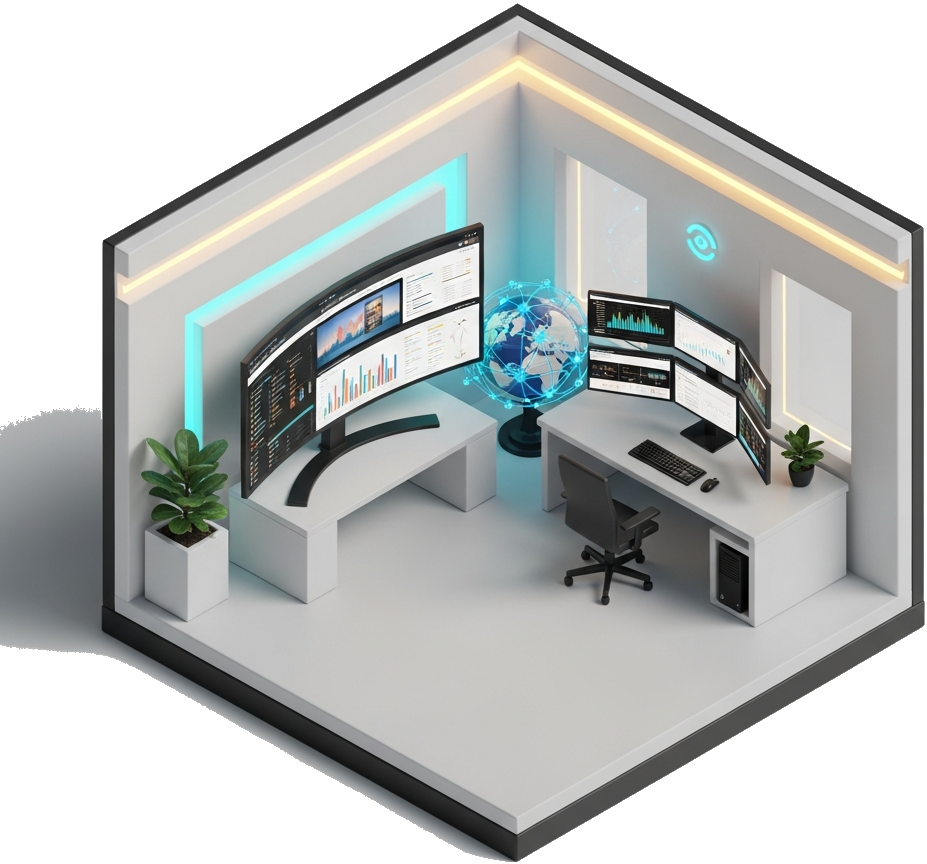
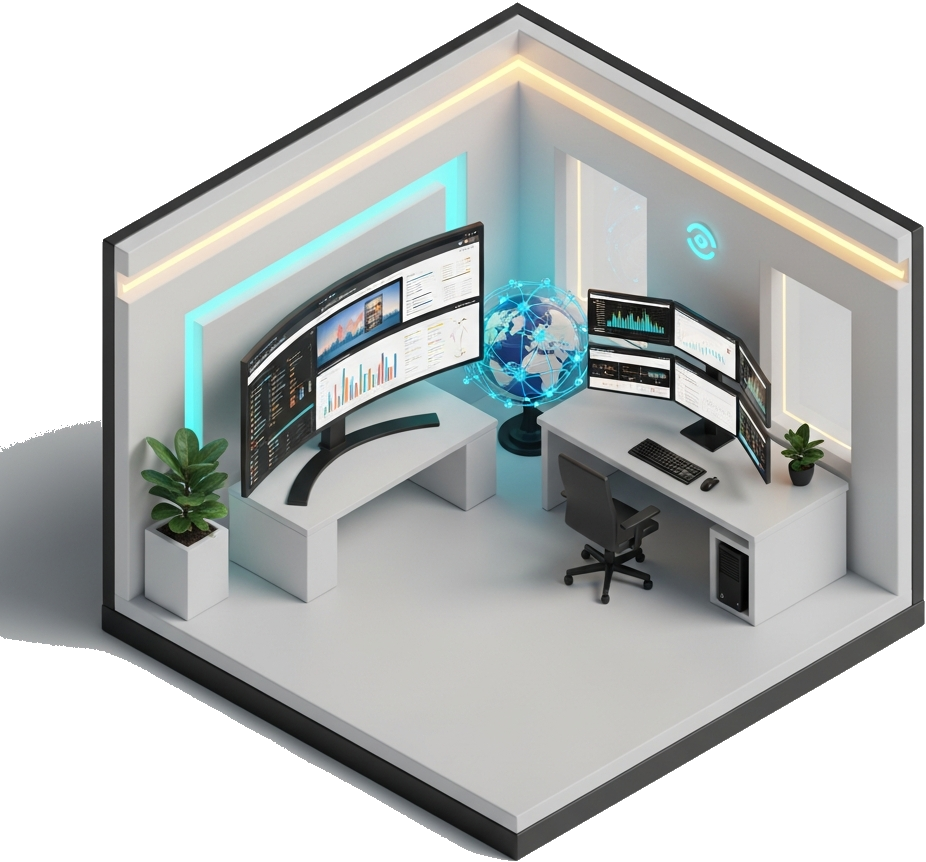
auto-commit for ea96acae-c438-4f1b-9b22-5030562a28d8

diff --git a/frontend/src/pages/DashboardHome.js b/frontend/src/pages/DashboardHome.js
@@ -13,12 +13,12 @@ import { getAvatarUrl } from '../utils/avatar';
 const API = process.env.REACT_APP_BACKEND_URL;
 
 const SITE_TYPE_THEMES = {
-  radio:          { img: '/images/env_radio.png', accent: '#f97316', label: 'Radio Station',    icon: Radio },
-  external_host:  { img: '/images/env_external_host.png', accent: '#06b6d4', label: 'External Host',    icon: ExternalLink },
-  server:         { img: '/images/env_server.png', accent: '#3b82f6', label: 'Virtual Datacenter', icon: HardDrive },
-  technical:      { img: '/images/env_technical.png', accent: '#10b981', label: 'Data Connection',  icon: Network },
-  task_scheduler: { img: '/images/env_task_scheduler.png', accent: '#8b5cf6', label: 'Task Manager',     icon: LayoutGrid },
-  wp_security:    { img: '/images/env_wp_security.png', accent: '#ef4444', label: 'WP Security',      icon: Shield },
+  radio:          { img: '/images/env_radio.jpg', accent: '#f97316', label: 'Radio Station',    icon: Radio },
+  external_host:  { img: '/images/env_external_host.jpg', accent: '#06b6d4', label: 'External Host',    icon: ExternalLink },
+  server:         { img: '/images/env_server.jpg', accent: '#3b82f6', label: 'Virtual Datacenter', icon: HardDrive },
+  technical:      { img: '/images/env_technical.jpg', accent: '#10b981', label: 'Data Connection',  icon: Network },
+  task_scheduler: { img: '/images/env_task_scheduler.jpg', accent: '#8b5cf6', label: 'Task Manager',     icon: LayoutGrid },
+  wp_security:    { img: '/images/env_wp_security.jpg', accent: '#ef4444', label: 'WP Security',      icon: Shield },
 };
 
 const Panel = ({ children, className = '', delay = 0, testId }) => (

diff --git a/frontend/src/components/workspace/CreateMainSiteWizard.js b/frontend/src/components/workspace/CreateMainSiteWizard.js
@@ -16,12 +16,12 @@ const API = process.env.REACT_APP_BACKEND_URL;
 
 /* ── Background images per type ── */
 const SITE_TYPE_BACKGROUNDS = {
-  radio: '/images/env_radio.png',
-  server: '/images/env_server.png',
-  external_host: '/images/env_external_host.png',
-  task_scheduler: '/images/env_task_scheduler.png',
-  technical: '/images/env_technical.png',
-  wp_security: '/images/env_wp_security.png',
+  radio: '/images/env_radio.jpg',
+  server: '/images/env_server.jpg',
+  external_host: '/images/env_external_host.jpg',
+  task_scheduler: '/images/env_task_scheduler.jpg',
+  technical: '/images/env_technical.jpg',
+  wp_security: '/images/env_wp_security.jpg',
 };
 
 const SITE_TYPES = [
@@ -54,7 +54,7 @@ const StepEnvironment = ({ selected, onSelect }) => (
             }`}
           >
             {/* Background preview */}
-            <div className="h-28 relative overflow-hidden bg-zinc-100">
+            <div className="h-28 relative overflow-hidden bg-white">
               <img
                 src={SITE_TYPE_BACKGROUNDS[type.id]}
                 alt=""

diff --git a/frontend/src/components/MainSiteDashboardLayout.js b/frontend/src/components/MainSiteDashboardLayout.js
@@ -52,12 +52,12 @@ const API = `${process.env.REACT_APP_BACKEND_URL}/api`;
 
 /* Site-type background images (same as CreateMainSiteWizard) */
 const SITE_TYPE_BACKGROUNDS = {
-  radio: '/images/env_radio.png',
-  server: '/images/env_server.png',
-  external_host: '/images/env_external_host.png',
-  task_scheduler: '/images/env_task_scheduler.png',
-  technical: '/images/env_technical.png',
-  wp_security: '/images/env_wp_security.png',
+  radio: '/images/env_radio.jpg',
+  server: '/images/env_server.jpg',
+  external_host: '/images/env_external_host.jpg',
+  task_scheduler: '/images/env_task_scheduler.jpg',
+  technical: '/images/env_technical.jpg',
+  wp_security: '/images/env_wp_security.jpg',
 };
 
 const roleIcons = {

diff --git a/frontend/src/components/workspace/CreateEnvironmentWizard.js b/frontend/src/components/workspace/CreateEnvironmentWizard.js
@@ -14,7 +14,7 @@ import WizardStepIndicator from './WizardStepIndicator';
 const API = process.env.REACT_APP_BACKEND_URL;
 const DEFAULT_COLORS = ['#ef4444', '#f59e0b', '#22c55e', '#3b82f6', '#8b5cf6', '#ec4899', '#06b6d4'];
 const ENV_STEPS = ['General', 'Settings', 'Admin', 'Deploying'];
-const ENV_BG_IMAGE = '/images/env_server.png';
+const ENV_BG_IMAGE = '/images/env_server.jpg';
 
 /* ── Deploy Step (matching MainSite wizard style) ── */
 const DeployStep = ({ label, status, delay }) => (

diff --git a/frontend/src/pages/LoginPage.js b/frontend/src/pages/LoginPage.js
@@ -15,7 +15,7 @@ const resolveUrl = (url) => {
   return url.startsWith('/') ? `${API}${url}` : url;
 };
 
-const ROOMS_IMG = '/images/clara_rooms.png';
+const ROOMS_IMG = '/images/clara_rooms.jpg';
 
 const LoginPage = () => {
   const [email, setEmail] = useState('');
